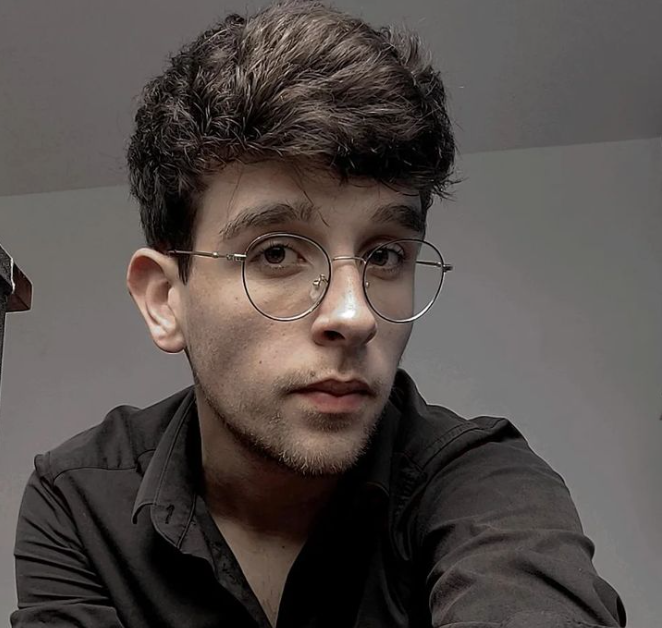
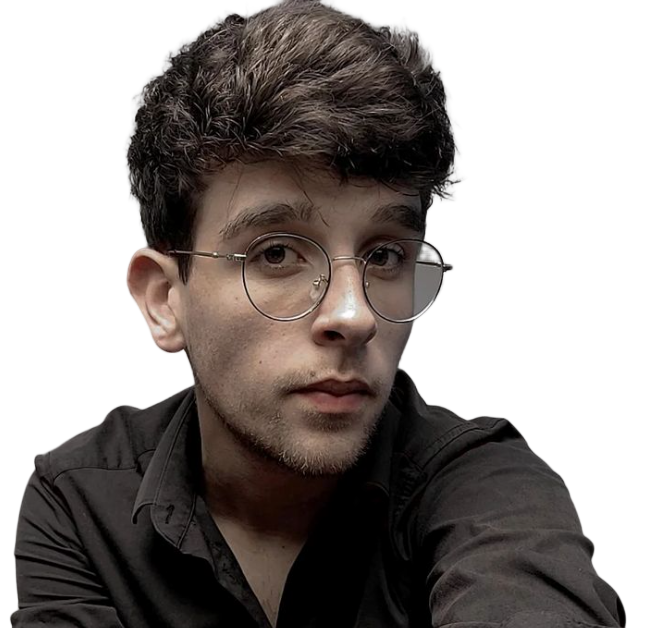
Alteração da foto de capa e criação dos botões home

diff --git a/index.html b/index.html
@@ -94,7 +94,7 @@
                             129.362C2.45775 97.8511 -7.48481 59.1033 6.67581 34.5279C20.9871 10.1032 59.7028 
                             -0.149132 97.9666 0.00163737C136.23 0.303176 174.193 10.857 190.312 36.4879Z"/>
 
-                            <image class="home__blob-img" xLink:href="Img/profile.png"/>
+                            <image class="home__blob-img" x='20' y='40' xLink:href="Img/profile.png"/>
                         </g>
                     </svg>
                 </div>
